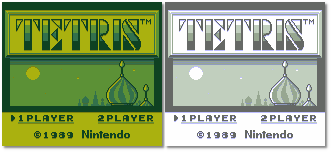
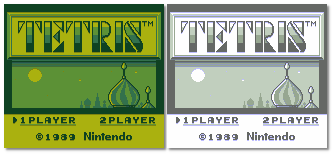
update docs

diff --git a/src/dmg.c b/src/dmg.c
@@ -121,7 +121,7 @@ static dmg_error_e dmg_service_setup_video(dmg_handle_t const handle, dmg_palett
     {
         return DMG_ERROR(handle, "SDL_SetHint failed -- %s", SDL_GetError());
     }
-    if (SDL_SetHint(SDL_HINT_RENDER_SCALE_QUALITY, "1") == SDL_FALSE)
+    if (SDL_SetHint(SDL_HINT_RENDER_SCALE_QUALITY, "0") == SDL_FALSE)
     {
         return DMG_ERROR(handle, "SDL_SetHint failed -- %s", SDL_GetError());
     }

diff --git a/src/common.h b/src/common.h
@@ -17,7 +17,7 @@
 
 #define DMG_MAJOR 0
 #define DMG_MINOR 1
-#define DMG_PATCH 0x45cbb17
+#define DMG_PATCH 0xed64c7d
 
 typedef enum
 {
